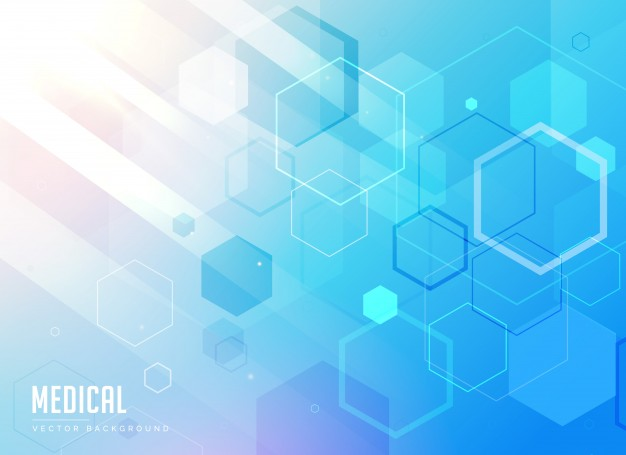
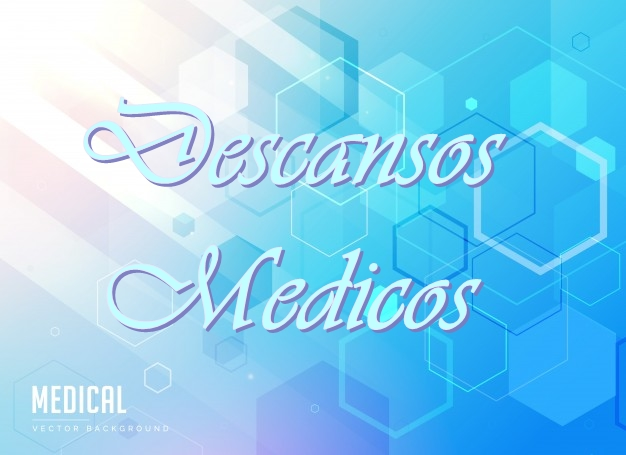
principal actualizado 2

Changed region(s): [[0.1214, 0.2154, 0.8195, 0.4308], [0.1821, 0.5231, 0.7891, 0.7385]]

diff --git a/src/programa/Principal2.java b/src/programa/Principal2.java
@@ -1,0 +1,139 @@
+/*
+ * To change this license header, choose License Headers in Project Properties.
+ * To change this template file, choose Tools | Templates
+ * and open the template in the editor.
+ */
+package programa;
+/**
+ *
+ * @author Sammy Guergachi <sguergachi at gmail.com>
+ */
+public class Principal2 extends javax.swing.JFrame {
+
+    /**
+     * Creates new form Principal2
+     */
+    public Principal2() {
+        initComponents();        
+        setLocationRelativeTo(null);
+        setSize(626,392);                  
+        setTitle("Descansos Medicos - Tecsup");
+    }
+
+    /**
+     * This method is called from within the constructor to initialize the form.
+     * WARNING: Do NOT modify this code. The content of this method is always
+     * regenerated by the Form Editor.
+     */
+    @SuppressWarnings("unchecked")
+    // <editor-fold defaultstate="collapsed" desc="Generated Code">//GEN-BEGIN:initComponents
+    private void initComponents() {
+
+        jPanel1 = new javax.swing.JPanel();
+        jButton1 = new javax.swing.JButton();
+        jMenuBar1 = new javax.swing.JMenuBar();
+        jMenu1 = new javax.swing.JMenu();
+        jMenuItem1 = new javax.swing.JMenuItem();
+        jMenuItem2 = new javax.swing.JMenuItem();
+        jMenuItem3 = new javax.swing.JMenuItem();
+        jMenuItem4 = new javax.swing.JMenuItem();
+        jMenu2 = new javax.swing.JMenu();
+
+        setDefaultCloseOperation(javax.swing.WindowConstants.EXIT_ON_CLOSE);
+
+        jButton1.setIcon(new javax.swing.ImageIcon(getClass().getResource("/Imagenes/fondo.jpg"))); // NOI18N
+        jButton1.setText("jButton1");
+
+        javax.swing.GroupLayout jPanel1Layout = new javax.swing.GroupLayout(jPanel1);
+        jPanel1.setLayout(jPanel1Layout);
+        jPanel1Layout.setHorizontalGroup(
+            jPanel1Layout.createParallelGroup(javax.swing.GroupLayout.Alignment.LEADING)
+            .addComponent(jButton1, javax.swing.GroupLayout.PREFERRED_SIZE, 600, javax.swing.GroupLayout.PREFERRED_SIZE)
+        );
+        jPanel1Layout.setVerticalGroup(
+            jPanel1Layout.createParallelGroup(javax.swing.GroupLayout.Alignment.LEADING)
+            .addComponent(jButton1, javax.swing.GroupLayout.PREFERRED_SIZE, 448, javax.swing.GroupLayout.PREFERRED_SIZE)
+        );
+
+        jMenu1.setText("Opciones");
+
+        jMenuItem1.setText("Visualizar registros");
+        jMenu1.add(jMenuItem1);
+
+        jMenuItem2.setText("Registrar");
+        jMenu1.add(jMenuItem2);
+
+        jMenuItem3.setText("Buscar");
+        jMenu1.add(jMenuItem3);
+
+        jMenuItem4.setText("Notificaciones");
+        jMenu1.add(jMenuItem4);
+
+        jMenuBar1.add(jMenu1);
+
+        jMenu2.setText("Edit");
+        jMenuBar1.add(jMenu2);
+
+        setJMenuBar(jMenuBar1);
+
+        javax.swing.GroupLayout layout = new javax.swing.GroupLayout(getContentPane());
+        getContentPane().setLayout(layout);
+        layout.setHorizontalGroup(
+            layout.createParallelGroup(javax.swing.GroupLayout.Alignment.LEADING)
+            .addComponent(jPanel1, javax.swing.GroupLayout.PREFERRED_SIZE, javax.swing.GroupLayout.DEFAULT_SIZE, javax.swing.GroupLayout.PREFERRED_SIZE)
+        );
+        layout.setVerticalGroup(
+            layout.createParallelGroup(javax.swing.GroupLayout.Alignment.LEADING)
+            .addComponent(jPanel1, javax.swing.GroupLayout.PREFERRED_SIZE, javax.swing.GroupLayout.DEFAULT_SIZE, javax.swing.GroupLayout.PREFERRED_SIZE)
+        );
+
+        pack();
+    }// </editor-fold>//GEN-END:initComponents
+
+    /**
+     * @param args the command line arguments
+     */
+    public static void main(String args[]) {
+        /* Set the Nimbus look and feel */
+        //<editor-fold defaultstate="collapsed" desc=" Look and feel setting code (optional) ">
+        /* If Nimbus (introduced in Java SE 6) is not available, stay with the default look and feel.
+         * For details see http://download.oracle.com/javase/tutorial/uiswing/lookandfeel/plaf.html 
+         */
+        try {
+            for (javax.swing.UIManager.LookAndFeelInfo info : javax.swing.UIManager.getInstalledLookAndFeels()) {
+                if ("Nimbus".equals(info.getName())) {
+                    javax.swing.UIManager.setLookAndFeel(info.getClassName());
+                    break;
+                }
+            }
+        } catch (ClassNotFoundException ex) {
+            java.util.logging.Logger.getLogger(Principal2.class.getName()).log(java.util.logging.Level.SEVERE, null, ex);
+        } catch (InstantiationException ex) {
+            java.util.logging.Logger.getLogger(Principal2.class.getName()).log(java.util.logging.Level.SEVERE, null, ex);
+        } catch (IllegalAccessException ex) {
+            java.util.logging.Logger.getLogger(Principal2.class.getName()).log(java.util.logging.Level.SEVERE, null, ex);
+        } catch (javax.swing.UnsupportedLookAndFeelException ex) {
+            java.util.logging.Logger.getLogger(Principal2.class.getName()).log(java.util.logging.Level.SEVERE, null, ex);
+        }
+        //</editor-fold>
+
+        /* Create and display the form */
+        java.awt.EventQueue.invokeLater(new Runnable() {
+            public void run() {
+                new Principal2().setVisible(true);
+            }
+        });
+    }
+
+    // Variables declaration - do not modify//GEN-BEGIN:variables
+    private javax.swing.JButton jButton1;
+    private javax.swing.JMenu jMenu1;
+    private javax.swing.JMenu jMenu2;
+    private javax.swing.JMenuBar jMenuBar1;
+    private javax.swing.JMenuItem jMenuItem1;
+    private javax.swing.JMenuItem jMenuItem2;
+    private javax.swing.JMenuItem jMenuItem3;
+    private javax.swing.JMenuItem jMenuItem4;
+    private javax.swing.JPanel jPanel1;
+    // End of variables declaration//GEN-END:variables
+}
